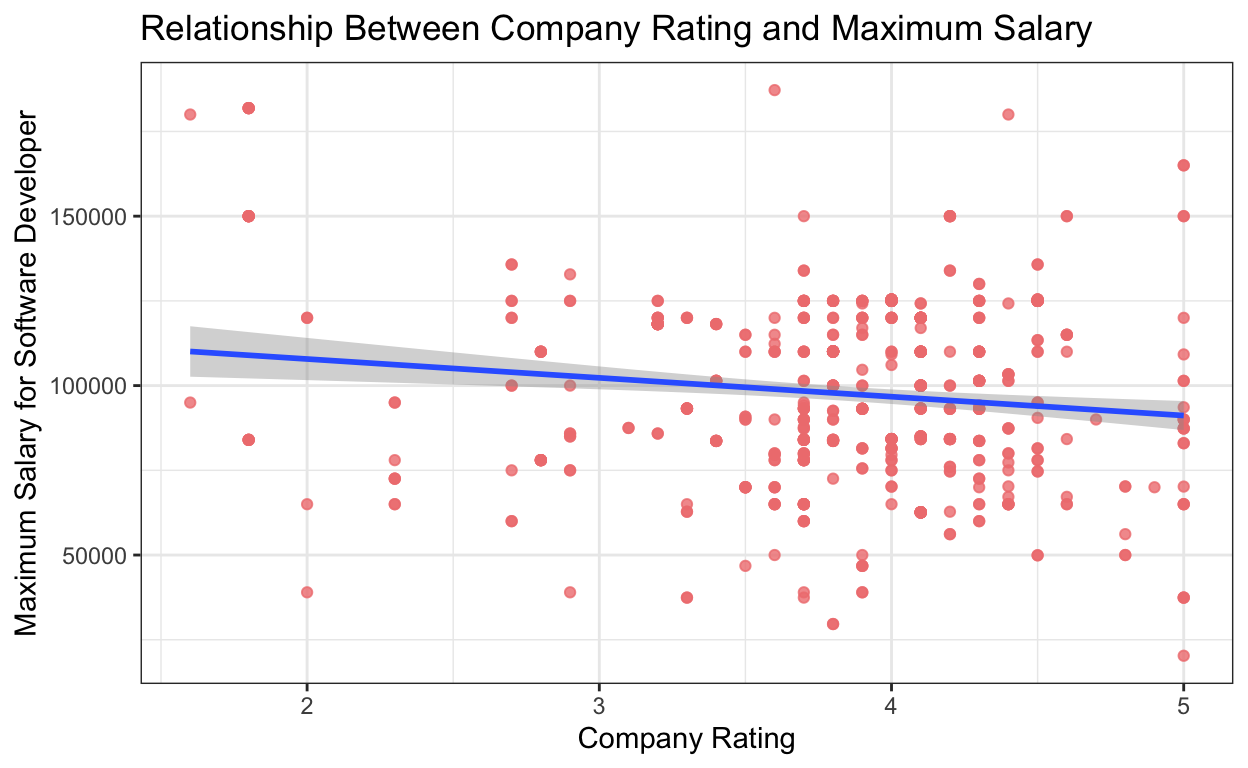
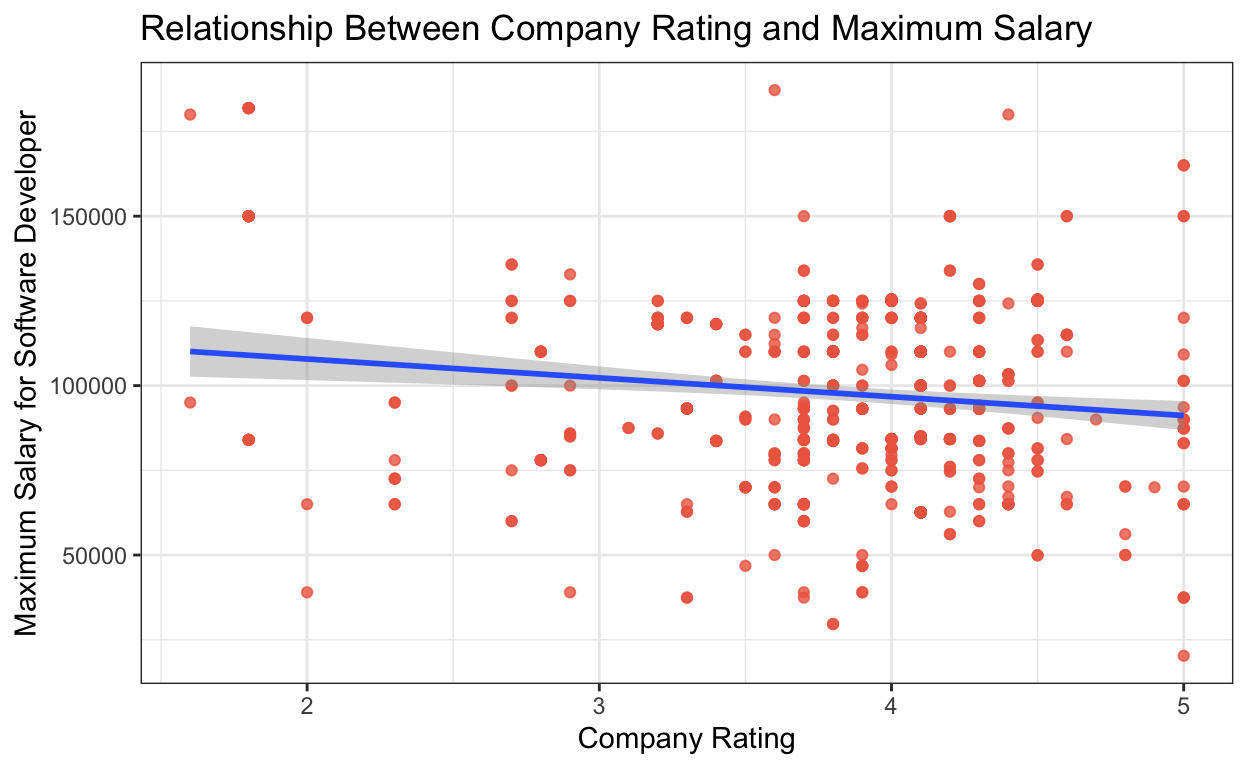
Milestone 4

diff --git a/index.html b/index.html
@@ -1578,7 +1578,7 @@ code span.wa { color: #5e5e5e; font-style: italic; } /* Warning */
 <div class="sourceCode">
 <pre class="sourceCode r"><code class="sourceCode r"><span><span class='va'>webdev_salary</span> <span class='op'>&lt;-</span> <span class='va'>salary_rating</span> <span class='op'>|&gt;</span> </span>
 <span>  <span class='fu'><a href='https://ggplot2.tidyverse.org/reference/ggplot.html'>ggplot</a></span><span class='op'>(</span>mapping <span class='op'>=</span> <span class='fu'><a href='https://ggplot2.tidyverse.org/reference/aes.html'>aes</a></span><span class='op'>(</span>x <span class='op'>=</span> <span class='va'>max_salary</span><span class='op'>)</span><span class='op'>)</span> <span class='op'>+</span></span>
-<span>  <span class='fu'><a href='https://ggplot2.tidyverse.org/reference/geom_histogram.html'>geom_histogram</a></span><span class='op'>(</span>color<span class='op'>=</span><span class='st'>"lightcoral"</span><span class='op'>)</span> <span class='op'>+</span> </span>
+<span>  <span class='fu'><a href='https://ggplot2.tidyverse.org/reference/geom_histogram.html'>geom_histogram</a></span><span class='op'>(</span>color<span class='op'>=</span><span class='st'>"coral2"</span><span class='op'>)</span> <span class='op'>+</span> </span>
 <span>  <span class='fu'><a href='https://ggplot2.tidyverse.org/reference/labs.html'>labs</a></span><span class='op'>(</span>title <span class='op'>=</span> <span class='st'>"Distribution of Maxium Salary of Software Developers in 612 Companies"</span> , </span>
 <span>       x <span class='op'>=</span> <span class='st'>"Maximum Salary for Software Developer"</span>, </span>
 <span>       y <span class='op'>=</span> <span class='st'>"Count"</span><span class='op'>)</span></span>
@@ -1595,7 +1595,7 @@ code span.wa { color: #5e5e5e; font-style: italic; } /* Warning */
 <pre class="sourceCode r"><code class="sourceCode r"><span><span class='va'>maxsalary_plot</span> <span class='op'>&lt;-</span> <span class='va'>salary_rating</span> <span class='op'>|&gt;</span> </span>
 <span>  <span class='fu'><a href='https://ggplot2.tidyverse.org/reference/ggplot.html'>ggplot</a></span><span class='op'>(</span>mapping <span class='op'>=</span> <span class='fu'><a href='https://ggplot2.tidyverse.org/reference/aes.html'>aes</a></span><span class='op'>(</span>x <span class='op'>=</span> <span class='va'>company_rating</span>,</span>
 <span>                     y <span class='op'>=</span> <span class='va'>max_salary</span><span class='op'>)</span><span class='op'>)</span> <span class='op'>+</span></span>
-<span>  <span class='fu'><a href='https://ggplot2.tidyverse.org/reference/geom_point.html'>geom_point</a></span><span class='op'>(</span>color <span class='op'>=</span> <span class='st'>"lightcoral"</span>, alpha <span class='op'>=</span> <span class='fl'>0.8</span><span class='op'>)</span> <span class='op'>+</span> <span class='fu'><a href='https://ggplot2.tidyverse.org/reference/geom_smooth.html'>geom_smooth</a></span><span class='op'>(</span>method <span class='op'>=</span> <span class='st'>"lm"</span><span class='op'>)</span> <span class='op'>+</span> </span>
+<span>  <span class='fu'><a href='https://ggplot2.tidyverse.org/reference/geom_point.html'>geom_point</a></span><span class='op'>(</span>color <span class='op'>=</span> <span class='st'>"coral2"</span>, alpha <span class='op'>=</span> <span class='fl'>0.8</span><span class='op'>)</span> <span class='op'>+</span> <span class='fu'><a href='https://ggplot2.tidyverse.org/reference/geom_smooth.html'>geom_smooth</a></span><span class='op'>(</span>method <span class='op'>=</span> <span class='st'>"lm"</span><span class='op'>)</span> <span class='op'>+</span> </span>
 <span>  <span class='fu'><a href='https://ggplot2.tidyverse.org/reference/labs.html'>labs</a></span><span class='op'>(</span>title <span class='op'>=</span> <span class='st'>"Relationship Between Company Rating and Maximum Salary"</span>, </span>
 <span>       x <span class='op'>=</span> <span class='st'>"Company Rating"</span>, </span>
 <span>       y <span class='op'>=</span> <span class='st'>"Maximum Salary for Software Developer"</span><span class='op'>)</span></span>
